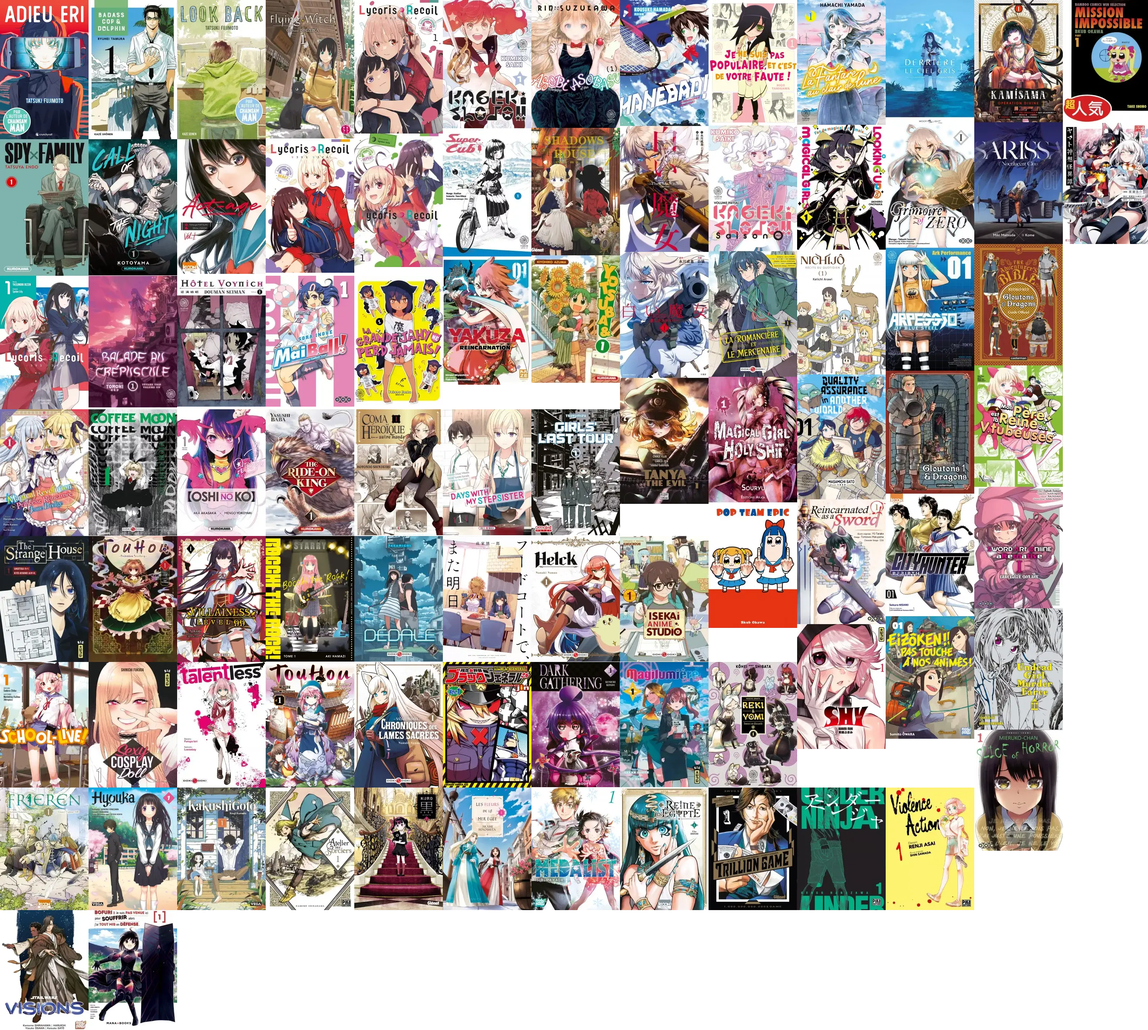
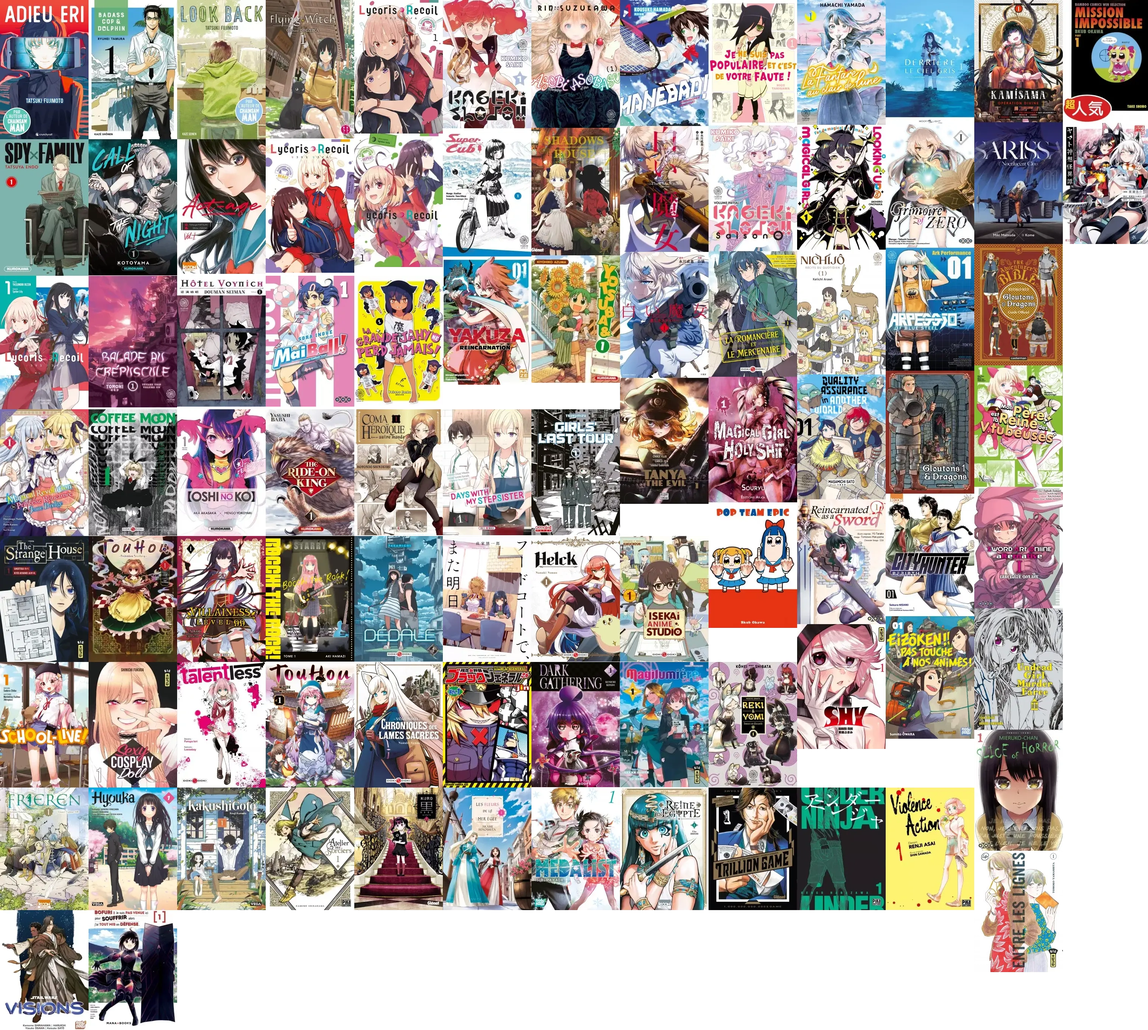
ajout série "Entre les lignes" (json+covers+css)

Changed region(s): [[0.8368, 0.8116, 0.9298, 0.9677]]

diff --git a/style/images.css b/style/images.css
@@ -438,3 +438,8 @@
     width: 234px; height: 332px;
     background: url("../img/covers.webp") -1170px -1750px;
 }
+
+.bg-entre_les_lignes_8808 {
+    width: 234px; height: 321px;
+    background: url("../img/covers.webp") -2574px -2249px;
+}
